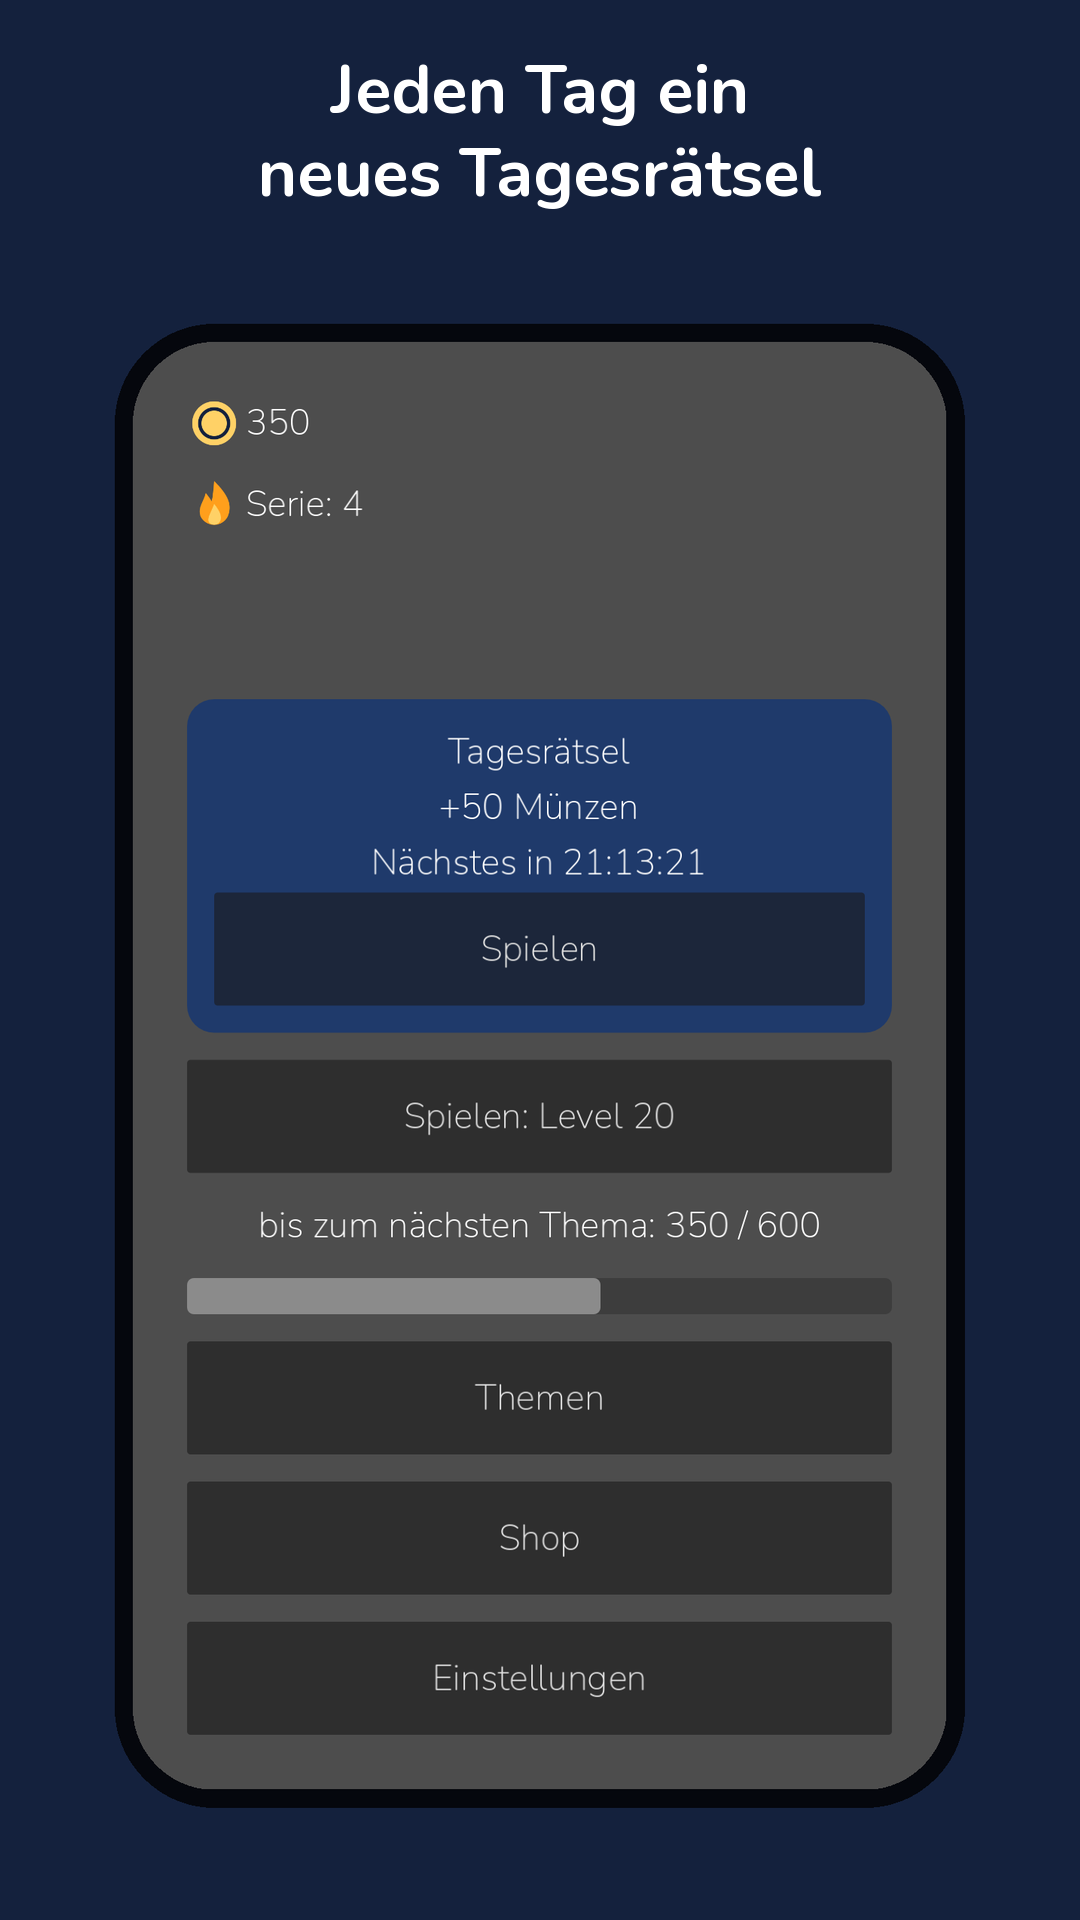
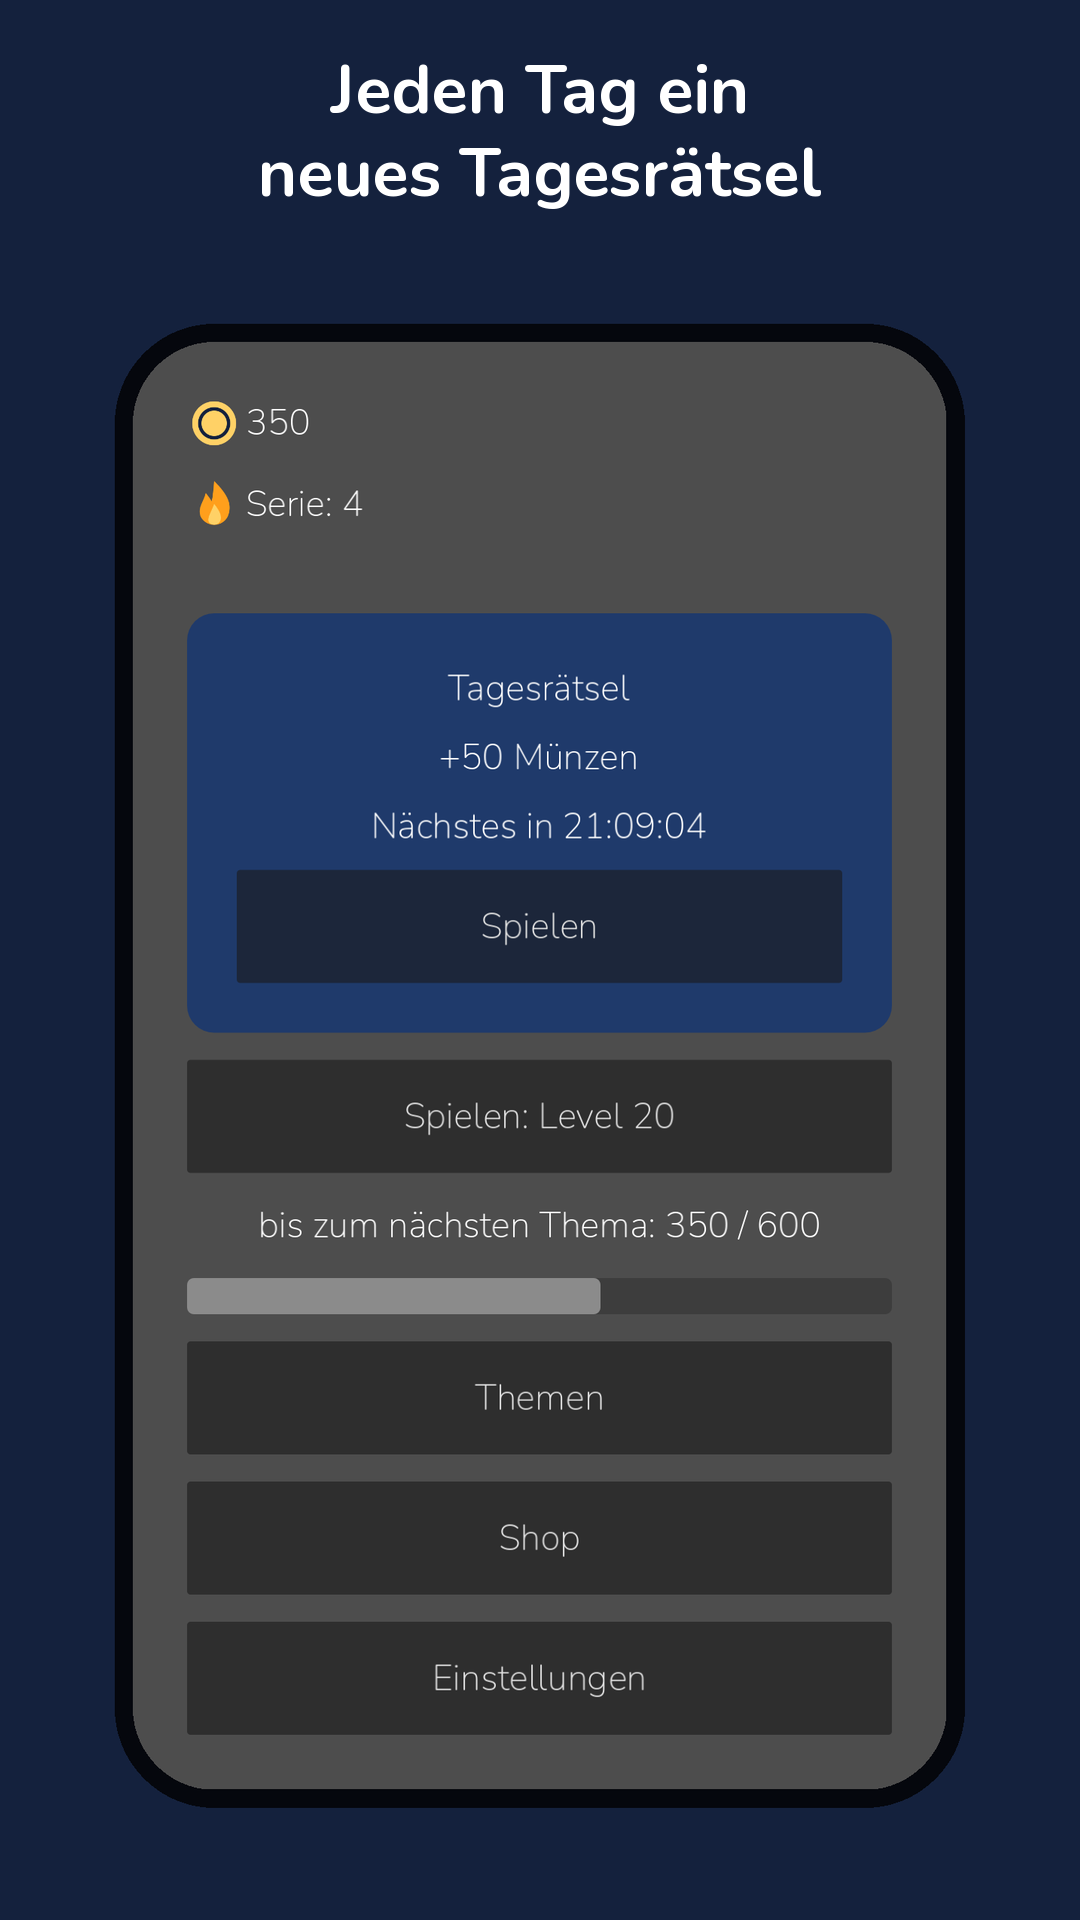
feat(T-061): odstępy w karcie Poziomu dnia na Home + test + screenshoty 03/04 (#60)
* feat(T-056): TubeView — warstwy płynu przycięte do wnętrza probówki (zaokrąglony spód) + testy + odświeżone screenshoty

Claude-Session: https://claude.ai/code/session_01UDf65fKwWNGfEucZKBXc7i

* feat(T-061): odstępy w karcie Poziomu dnia na Home (CARD_PADDING/CARD_SEPARATION) + test + odświeżone screenshoty 03/04

Claude-Session: https://claude.ai/code/session_01UDf65fKwWNGfEucZKBXc7i

---------

Changed region(s): [[0.1528, 0.3125, 0.825, 0.5312]]

diff --git a/BACKLOG.md b/BACKLOG.md
@@ -48,7 +48,7 @@ Pętla bierze pierwsze `todo` z najwyższej sekcji. Zadania P0 muszą być `done
   KA: rysowanie warstw w `tube_view.gd` ograniczone do wnętrza probówki (np. dolna warstwa jako prostokąt + zaokrąglony spód o promieniu z sprite'a, albo `clip_children` z maską) dla obu kształtów z T-018; stałe proporcji jako nazwane `const`/klucze. Test gdUnit4: dla probówki pełnej i z 1 warstwą prostokąt/obrys dolnej warstwy mieści się w `Rect2` wnętrza probówki (z tolerancją 1 px) w obu kształtach. Kadr Level (01) obejrzany po `make screenshots`. `make check` zielone. ≤ ~100 linii.
   Skill: `godot-dev`
 
-- [ ] T-061 `todo` Home: odstęp nad przyciskiem „Graj” w karcie Poziomu dnia + regeneracja 15 screenshotów sklepowych (zależy od T-056, T-057, T-063) (przeniesione z Inbox)
+- [ ] T-061 `review` Home: odstęp nad przyciskiem „Graj” w karcie Poziomu dnia + regeneracja 15 screenshotów sklepowych (zależy od T-056, T-057, T-063) (przeniesione z Inbox) → PR #60
   KA: `separation` VBox karty z nazwanej stałej/stylu (≥ 12 px przy 1080×1920); test gdUnit4: odstęp między etykietą stanu a przyciskiem „Graj” ≥ stała. `make screenshots` → 15 PNG (5 kadrów × EN/PL/DE) odświeżonych i zacommitowanych, test rozmiarów z T-050 zielony; kadry 01–05 obejrzane, lista uwag w opisie PR. `make check` zielone. ≤ ~40 linii + PNG.
   Skill: `aso`
 
@@ -93,6 +93,7 @@ Pętla bierze pierwsze `todo` z najwyższej sekcji. Zadania P0 muszą być `done
 - [ ] T-069 `todo` ConsentFlow: `ok=false` z `request_consent_info_update` idzie dalej ze statusem providera (`unknown`) — rozważyć osobny event `consent:ump:error` + test; `FakeConsentProvider` nie umie zwrócić `ok=false`. Skill: ads-iap
 - [ ] T-070 `todo` Ads.show_privacy_options: po zamknięciu opcji prywatności (callback ze statusem) ponownie ustawić `provider.set_personalized` wg nowej zgody + odświeżyć `Settings.apply_from_state` przez `Ads.consent_finished`; `Ads` jako autoload może potrzebować `process_mode = PROCESS_MODE_ALWAYS` dla `poll()` przy pauzie drzewa. Skill: ads-iap
 - [ ] T-071 `todo` iOS manifest (T-053): sprawdzić, czy preset iOS Godota 4.7 generuje własny PrivacyInfo.xcprivacy z opcji `privacy/*` (nie dublować z `game/ios/PrivacyInfo.xcprivacy`) i czy engine wymaga dodatkowych kategorii required-reason API (np. DiskSpace/statfs); zweryfikować kody powodów CA92.1/C617.1/35F9.1 i linked/tracking 6 typów. Skill: store-release
+- [ ] T-072 `todo` Home/ASO: etykieta `home_streak` w PL/DE pokazuje „Streak: %d” (nieprzetłumaczone — kadr 03/04 PL/DE); przetłumaczyć („Seria: %d” / „Serie: %d”), sprawdzić inne klucze z angielskim w PL/DE; popup 04 nachodzi na kartę Poziomu dnia (ucięty napis w tle) — rozważyć ukrycie karty pod popupem. Skill: aso
 - [ ] T-067 `todo` tools/test_tools.py: `Image.open` bez `with` → ResourceWarning: unclosed file w logu testów; użyć `with Image.open(...) as im`. Skill: godot-test
 - [ ] T-058 `todo` Screenshoty iOS 6,9" (1320×2868) w `fastlane/metadata/ios/<locale>/` — tylko po weryfikacji wymaganego rozmiaru w dokumentacji App Store Connect (link w zadaniu). Skill: aso
 - [ ] T-059 `todo` `export/screenshots_raw/` jest ignorowane, ale `fastlane/metadata/android/*/images/` nie — ustalić politykę (commitowane tylko kadry sklepowe z T-050; smoke-screenshoty z `screens.txt` do `export/`). Skill: aso

diff --git a/docs/LOG.md b/docs/LOG.md
@@ -103,3 +103,4 @@ Godot 4.4.1 → 4.7.2, gdUnit4 → v7, target API 36 (ADR-008). make check zielo
 - P1: T-064 `game/ios/PrivacyInfo.xcprivacy` (tracking=true, domeny [] ZWERYFIKUJ, 6 typów danych 1:1 z tabelą Privacy Labels, 3 kategorie required-reason API) + `PrivacyManifestTest` (4 testy, 29 tools) + punkt w RELEASE_CHECKLIST → PR #57 (auto-merge). Inbox: T-071.
 - P1: T-056 TubeView: warstwy jako wielokąty (`inner_rect`/`layer_rect`/`layer_polygon` static, dolna z zaokrąglonym spodem r=36 ze sprite'a, marginesy 12/13/13 z gen_assets) + 4 testy (275 gdUnit4); `make screenshots` → 9 PNG (01/02/03 × EN/PL/DE), kadr 01 obejrzany → PR #59 (auto-merge).
 - P1: T-057 kadr 02 pokazywał już „+25 coins”/„Perfect!” (T-050 liczyło w main.gd) — logika przeniesiona do `ScreenshotFixtures.win_result()/apply_win()` z `Economy.win_reward`/`rewarded_bonus` (bez literałów) + 2 testy (273 gdUnit4); PNG bez zmian → PR #58 (auto-merge).
+- P1: T-061 karta Poziomu dnia: `MarginContainer` (CARD_PADDING=20) + `separation` CARD_SEPARATION=16 + test odstępów (276 gdUnit4); `make screenshots` → 6 PNG (03/04 × EN/PL/DE), kadry 03/04 obejrzane → PR #60 (auto-merge, depends on #59). Inbox: T-072.
